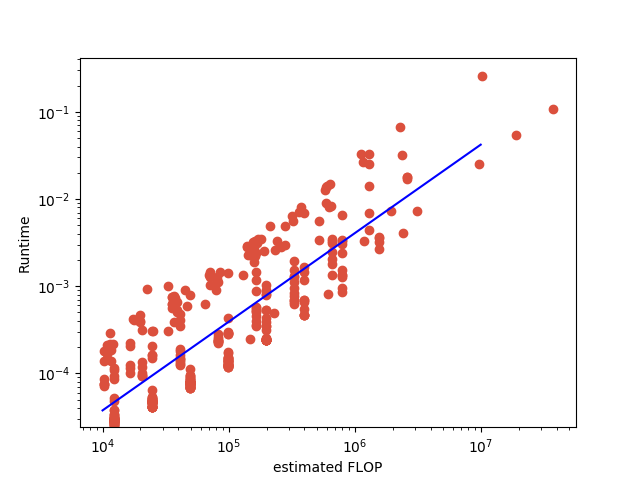
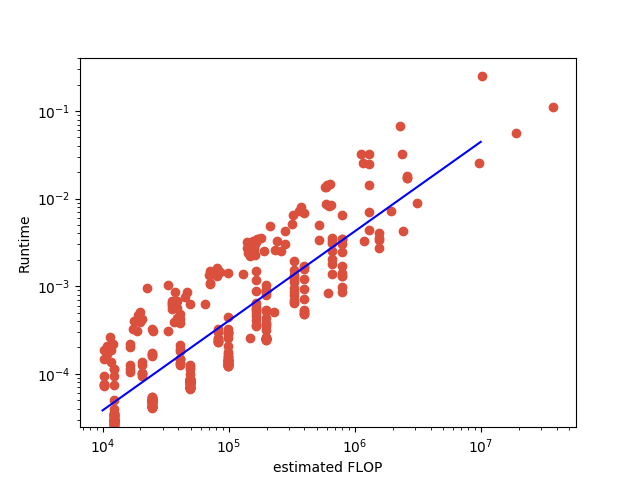
[jlse-results] for `[jlse-run] prettify and refresh comments`

diff --git a/run/automake/results/result.md b/run/automake/results/result.md
@@ -1,28 +1,14 @@
 ## Automake run result
-![](CB)
-\n
-Run date: Wed Oct  7 09:03:03 UTC 2020
-## Automake run result
-![](CB)
-\n
-Run date: Wed Oct  7 09:10:39 UTC 2020
-## Automake run result
-![](CB)
-\n
-Run date: Wed Oct  7 09:15:40 UTC 2020
-## Automake run result
-![](CB)
-\n
-Run date: Wed Oct  7 09:29:31 UTC 2020
-## Automake run result
-![](CB)
-\n
-Run date: Wed Oct  7 09:56:47 UTC 2020
-## Automake run result
-![](https://asset.cml.dev/ea26731be8f1e187c7b01d65c8adf7c4c0e65249)
-\n
+### Performance summary:
 ===Results===
-Simulator fitted flops: 0.31046 G
-Matmul flops: 436.24 G
-Simulator optimality: 0.0007116676847451909
-Run date: Wed Oct  7 11:28:33 UTC 2020
+Simulator fitted flops: 0.32148 G
+Matmul flops: 416.78 G
+Simulator optimality: 0.0007713454853975739
+\n
+\n
+Backend used: numpy.einsum
+\n
+### Performance plot:
+![](https://asset.cml.dev/1ec86d76903b5fdaa3b519e755ed2ba5423db5fd)
+\n
+Run date: Wed Oct  7 11:39:25 UTC 2020
